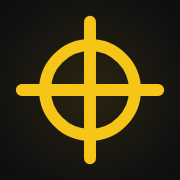
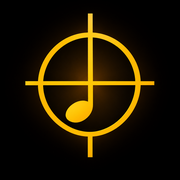
Coda: เปลี่ยนไอคอนเป็นแบบโน้ตเพลงที่ครูเป้เลือก
Claude-Session: https://claude.ai/code/session_016SiXMu6RKLBtbUYC31oS3B

Changed region(s): [[0.0833, 0.0556, 0.9167, 0.9167]]

diff --git a/index.html b/index.html
@@ -8,8 +8,8 @@
 <meta name="mobile-web-app-capable" content="yes">
 <meta name="apple-mobile-web-app-status-bar-style" content="black-translucent">
 <meta name="apple-mobile-web-app-title" content="Coda">
-<link rel="apple-touch-icon" href="apple-touch-icon.png">
-<link rel="icon" type="image/png" href="icon-512.png">
+<link rel="apple-touch-icon" href="apple-touch-icon.png?v=2">
+<link rel="icon" type="image/png" href="icon-512.png?v=2">
 <meta name="theme-color" content="#0E0F11">
 <title>Coda</title>
 <link rel="stylesheet" href="https://fonts.googleapis.com/css2?family=Mitr:wght@500;600&family=IBM+Plex+Sans+Thai:wght@400;500;600&family=JetBrains+Mono:wght@700&display=swap">
